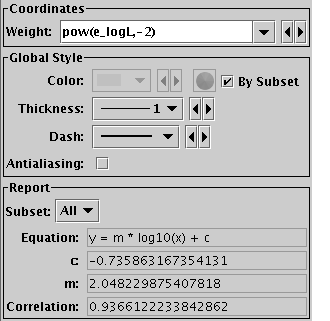
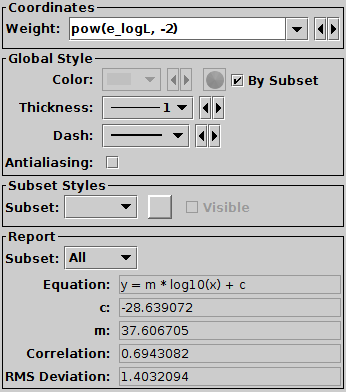
ttools: add RMS Deviation to LinearFitPlotter
The root-mean-squared deviation of the data points from the fitted
line is now added as a new Report for to the LinearFitPlotter.
This is added at user request.

diff --git a/ttools/src/main/uk/ac/starlink/ttools/plot2/layer/LinearFitPlotter.java b/ttools/src/main/uk/ac/starlink/ttools/plot2/layer/LinearFitPlotter.java
@@ -66,6 +66,11 @@ public class LinearFitPlotter extends AbstractPlotter<LineStyle> {
         ReportKey.createDoubleKey( new ReportMeta( "correlation",
                                                    "Correlation" ), true );
 
+    /** Report key for RMS deviation from fitted line. */
+    public static final ReportKey<Double> RMSD_KEY =
+        ReportKey.createDoubleKey( new ReportMeta( "RMSD", "RMS Deviation" ),
+                                   true );
+
     /** Report key for order zero polynomial coefficient. */
     private static final ReportKey<Double> C0_KEY =
         ReportKey.createDoubleKey( new ReportMeta( "c", "c" ), true );
@@ -383,6 +388,7 @@ public class LinearFitPlotter extends AbstractPlotter<LineStyle> {
             report.put( C0_KEY, coeffs[ 0 ] );
             report.put( C1_KEY, coeffs[ 1 ] );
             report.put( CORRELATION_KEY, stats_.getCorrelation() );
+            report.put( RMSD_KEY, stats_.getRmsDeviation() );
             report.put( COEFFS_KEY, coeffs );
             return report; 
         }
@@ -471,6 +477,22 @@ public class LinearFitPlotter extends AbstractPlotter<LineStyle> {
             double sw2x = sw_ * swXX_ - swX_ * swX_;
             double sw2y = sw_ * swYY_ - swY_ * swY_;
             return ( sw_ * swXY_ - swX_ * swY_ ) / Math.sqrt( sw2x * sw2y );
+        }
+
+        /**
+         * Returns the root-mean-squared deviation of the data points from
+         * the fitted line.
+         * This value is sqrt(Sum((y-mx-c)**2)/N).
+         *
+         * @return  RMS deviation:
+         */
+        public double getRmsDeviation() {
+            double[] cm = getLinearCoefficients();
+            double c = cm[ 0 ];
+            double m = cm[ 1 ];
+            double nK2 =
+                m*m*swXX_ + swYY_ - 2*m*swXY_ + 2*m*c*swX_ - 2*c*swY_ + c*c*sw_;
+            return Math.sqrt( nK2 / sw_ );
         }
     }
 }
